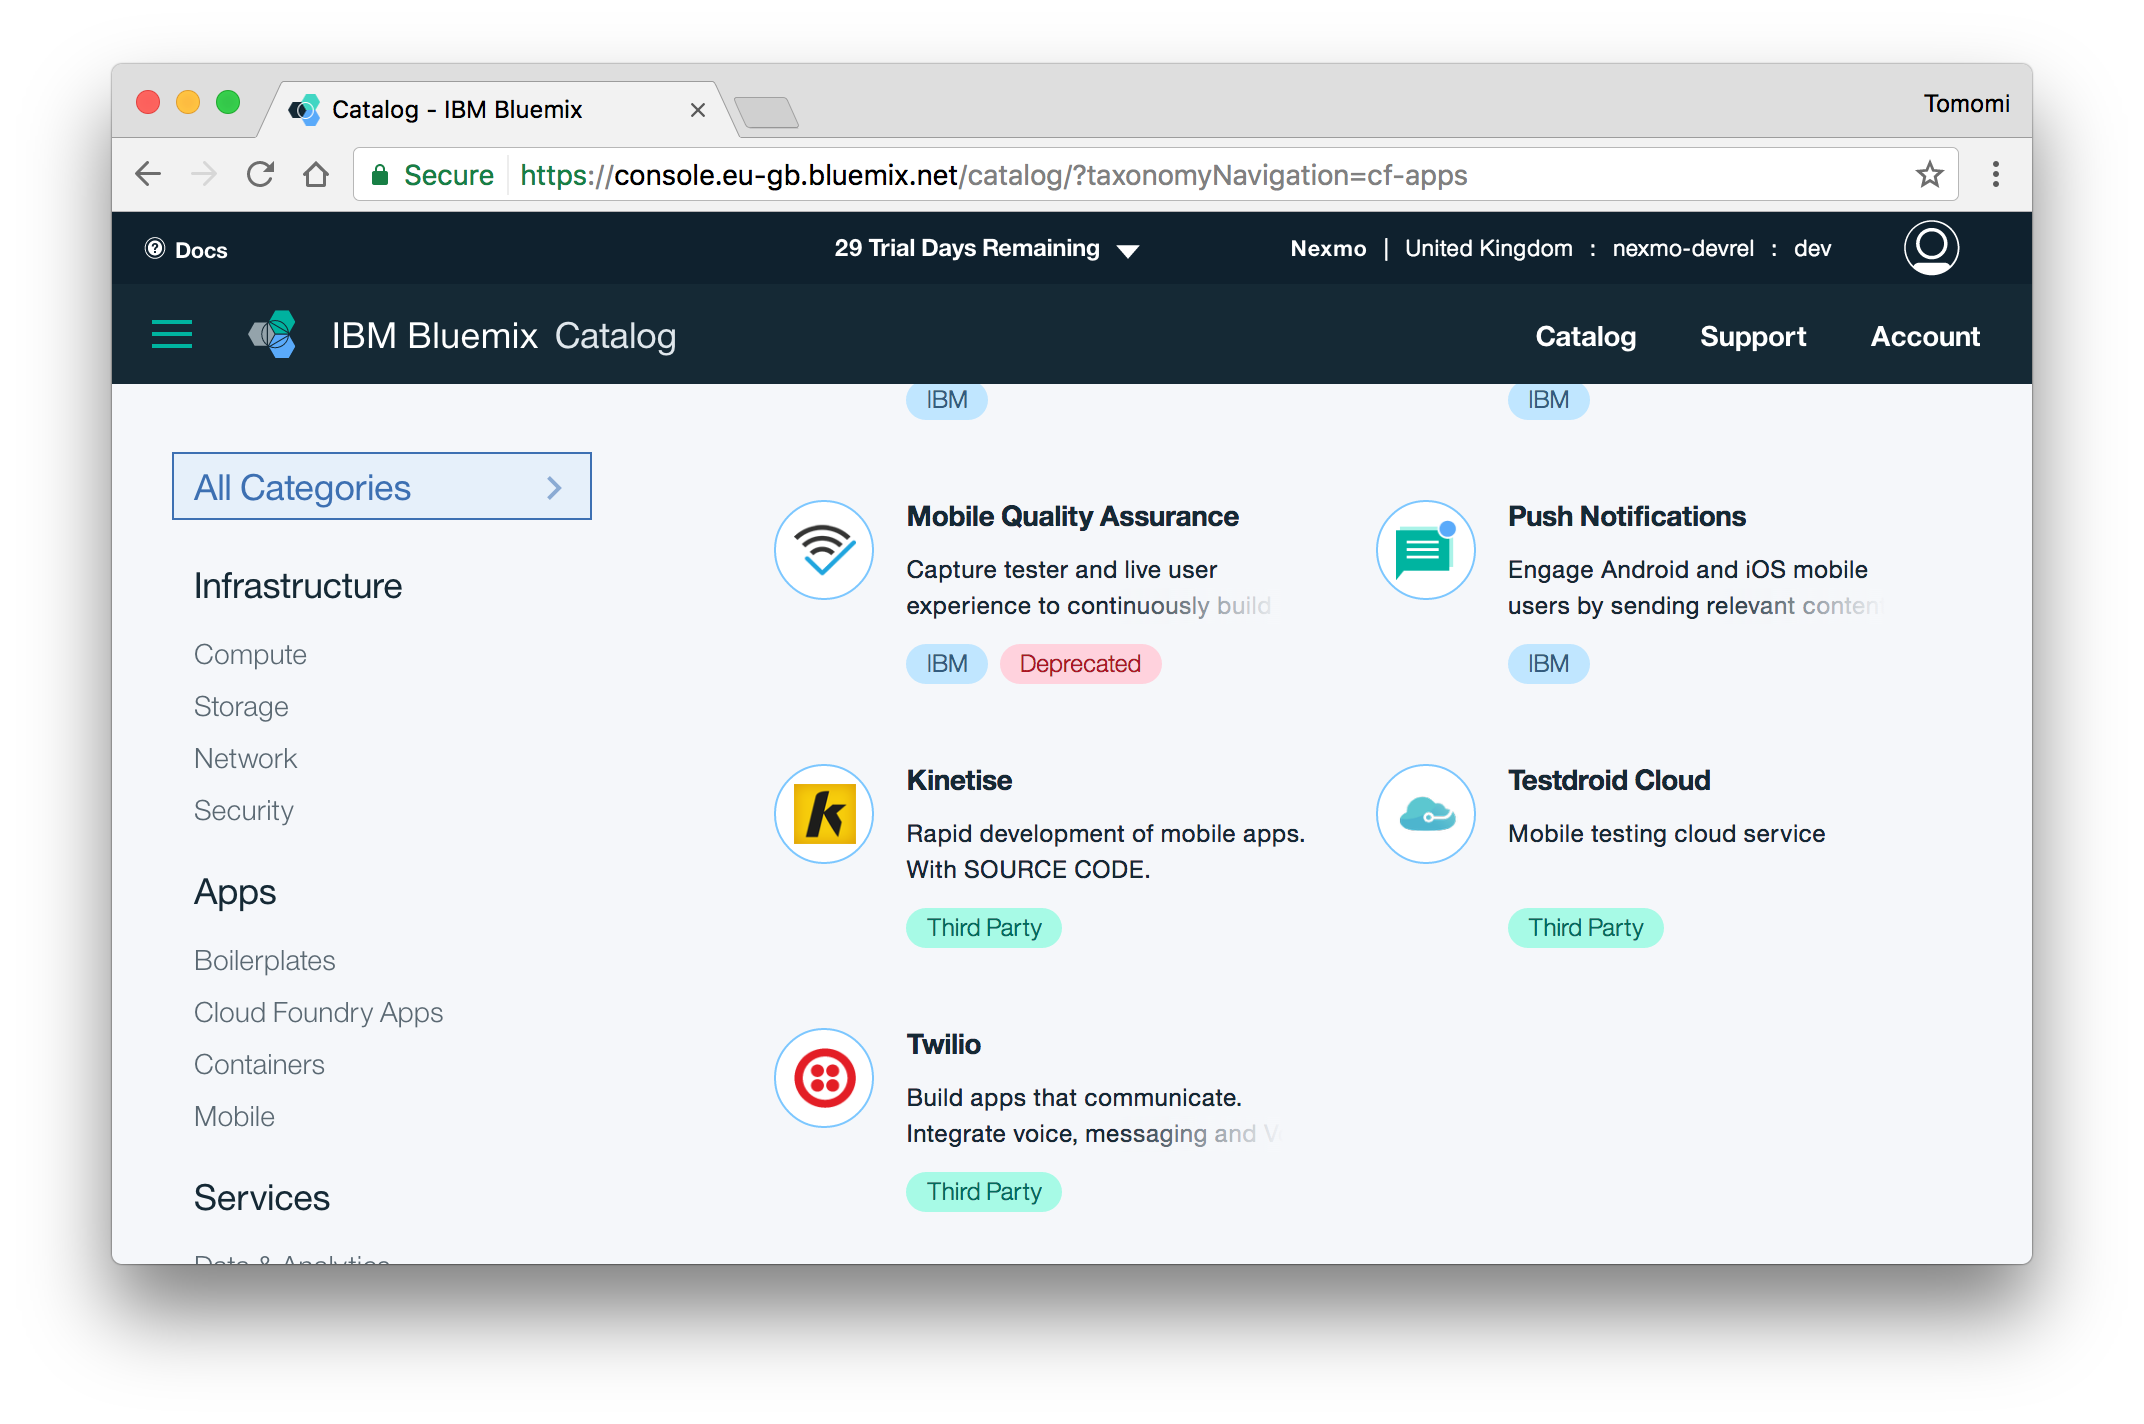
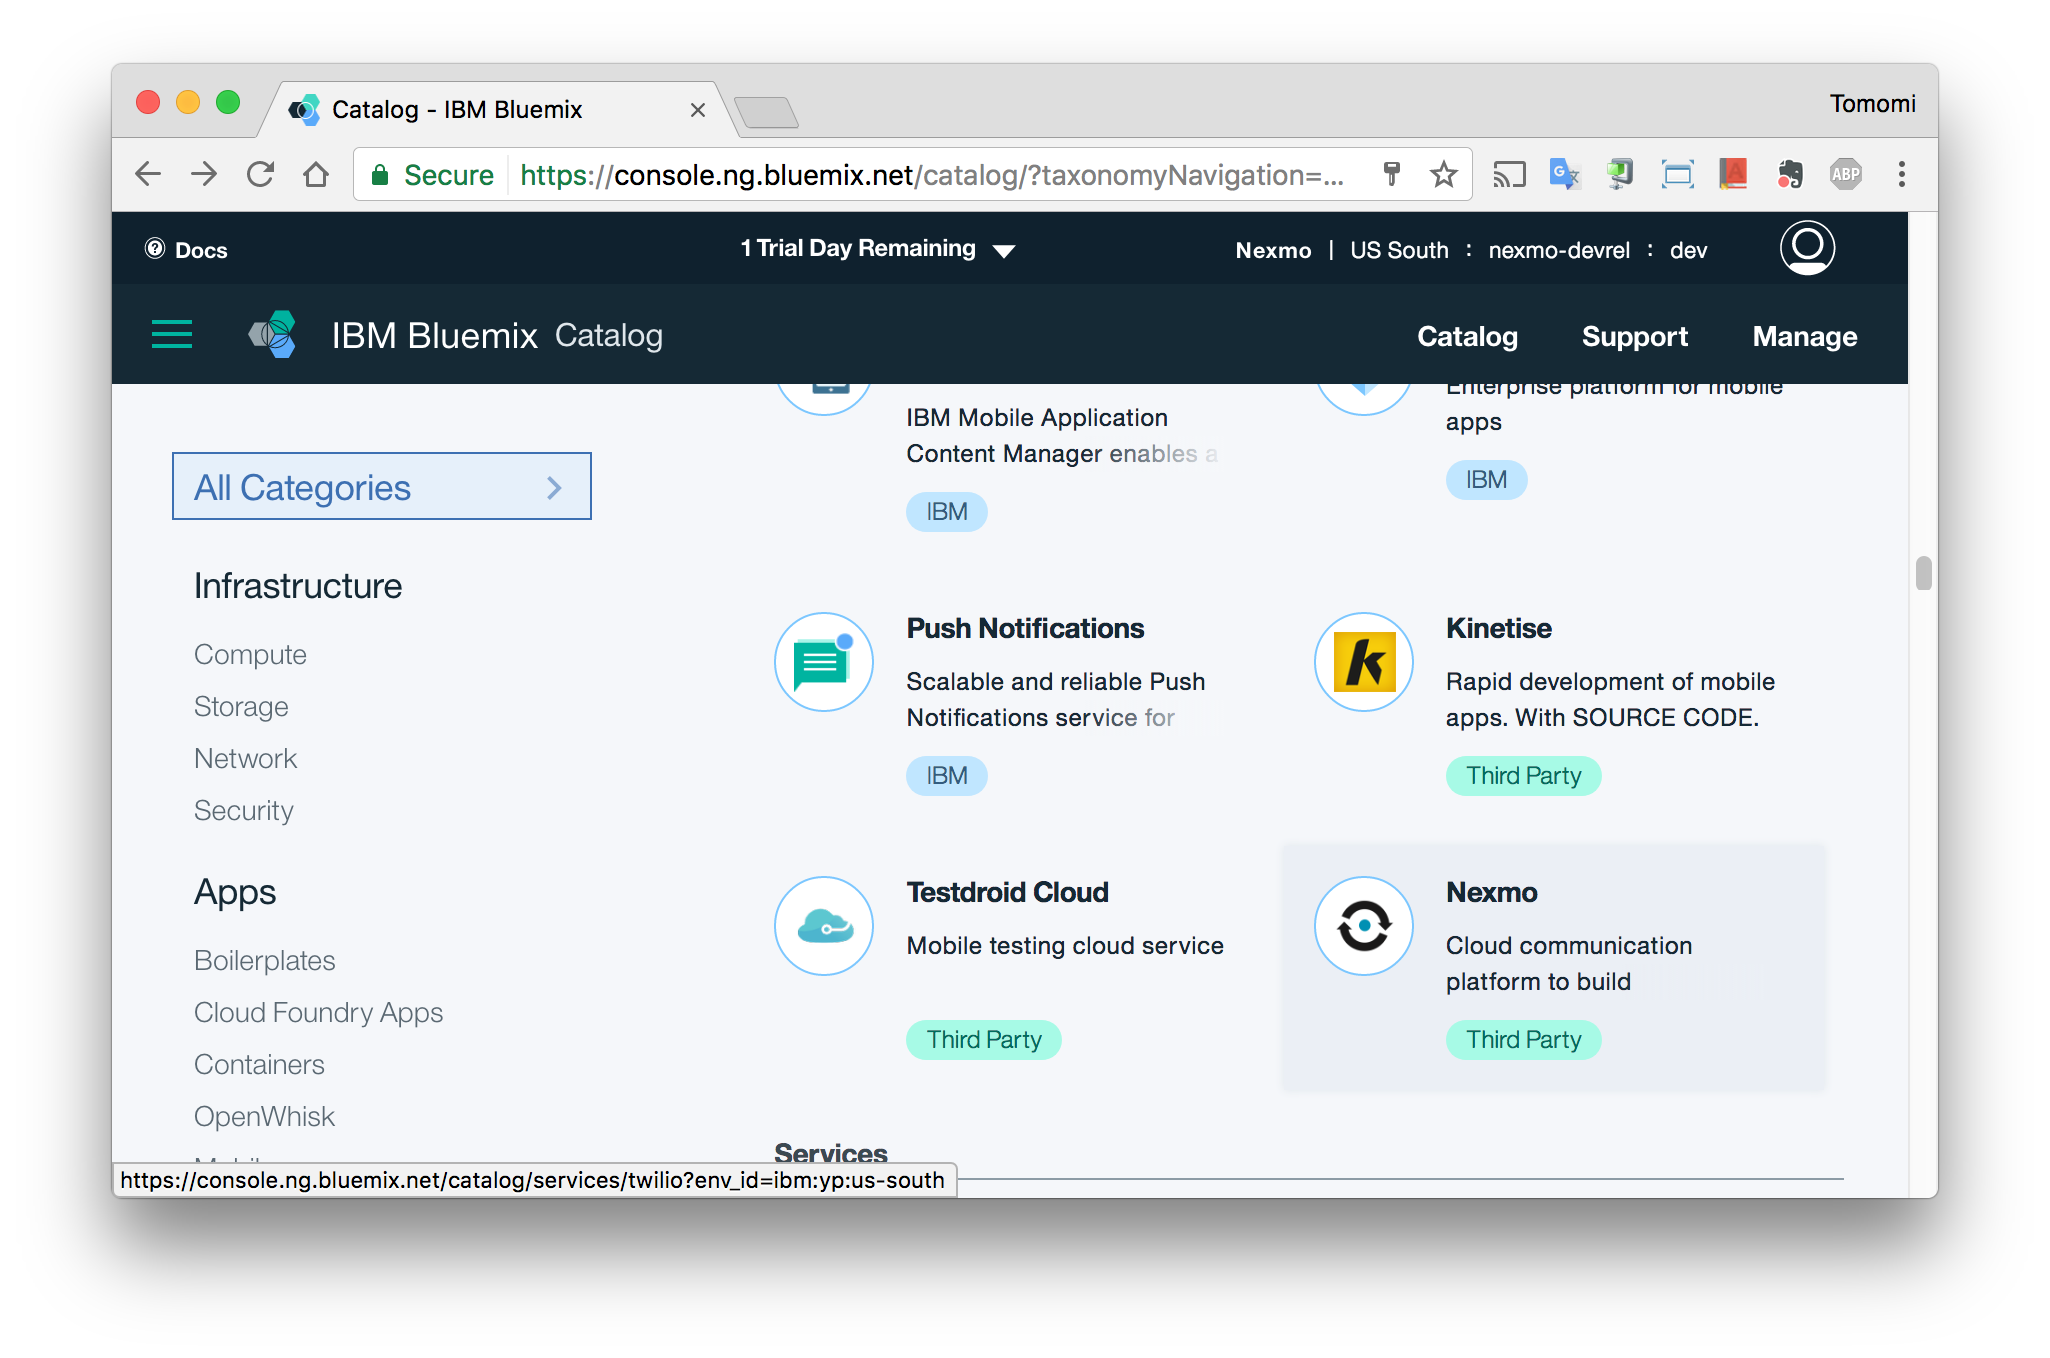
add a ne screenshot and modify the code sample

Changed region(s): [[0.0312, 0.0619, 0.9678, 0.8969], [0.6556, 0.6186, 0.8117, 0.8041], [0.9366, 0.4021, 0.9678, 0.4639]]

diff --git a/services/Nexmo/index.md b/services/Nexmo/index.md
@@ -18,7 +18,7 @@ lastupdated: "2017-04-04"
 {: #gettingstarted}
 
 
-[Nexmo](https://nexmo.com) provides tools for voice, messaging and phone verification, enabling you to embed programmable communications into mobile apps, websites and business systems. Nexmo APIs include SMS text messaging, two-factor authentication, voice, chat, and social media connect.
+[Nexmo](https://nexmo.com), The Vonage API Platform, provides tools for voice, messaging and phone verification, enabling you to embed programmable communications into mobile apps, websites and business systems. Nexmo APIs include SMS text messaging, two-factor authentication, voice, chat, and social media connect.
 
 To get started with Nexmo APIs on Bluemix:
 
@@ -36,7 +36,7 @@ Go to your [Dashboard](https://console.eu-gb.bluemix.net/dashboard/apps/), and c
 
 ![Create an app](images/01-create-app.png)
 
-Next, scroll down to *Cloud Foundry Apps*, and choose **SDK for Node.js****TM** :
+Next, scroll down to *Cloud Foundry Apps*, and choose **SDK for Node.js** :
 
 ![Create an app](images/02-create-app-js.png)
 
@@ -48,7 +48,7 @@ Now, it takes you to the dashboard and you should see some progress indicators t
 
 # Using Nexmo with the New Application
 
-You are going to use Nexmo to build your SMS analysis app. Click **Catalog** at the top menu bar:
+You are going to use Nexmo to simply send a SMS message. Click **Catalog** at the top menu bar:
 
 ![Create an app](images/04-go-to-catalog.png)
 
@@ -56,11 +56,7 @@ At the catalog, search under *Mobile*, then click **Nexmo**:
 
 ![Create an app](images/05-add-nexmo.png)
 
-Fill out your Nexmo API Key and API Secret.
-
-[I NEED THE SCREENSHOT!]
-
-Click Create.
+At the next screen, fill out your Nexmo **API Key** and **API Secret**, then click Create.
 
 ### Downloading Your Template Files
 
@@ -75,9 +71,7 @@ To download, modify, and redeploy your Cloud Foundry applications and service in
 After the installation, use the `cf` command to login and connect to the Bluemix environment:
 
 ```bash
-
 $ cf api [https://api.ng.bluemix.net](https://api.ng.bluemix.net)
-
 ```
 
 Or use the API endpoint for your region, [https://api.eu-gb.bluemix.net](https://api.eu-gb.bluemix.net/) (United Kingdom) and [https://api.au-syd.bluemix.net](https://api.au-syd.bluemix.net/) (Sydney).
@@ -85,9 +79,7 @@ Or use the API endpoint for your region, [https://api.eu-gb.bluemix.net](https:/
 Then login:
 
 ```bash
-
 $ cf login
-
 ```
 
 Now you got your Bluemix set up, so you can get started creating your Node.js application.
@@ -137,28 +129,35 @@ This will add the `nexmo` as the dependencies in your **package.json** file auto
 
 Also, check your **manifest.yml** file, which is used by Bluemix for the deployment. It should look like this:
 
-applications:
-
 ```bash
-- services:
-  - nexmo
+applications:
+- path: .
+  services
+  - Nexmo-yl
   name: send-sms
-  command: node app.js
+  host: send-sms
+...
 ```
 
-Now, open the app.js file, and assign your Nexmo API credentials. You can grab the credentials from the Bluemix, where it stores all service credentials. Access your Nexmo credentials within the `VCAP_SERVICES` environment variable with `cfenv` that parses Cloud Foundry-provided environment variables:
+For the service name,  you have an automatically generated for your application. It usually look like, `nexmo-`, and two random characters, such as `nexmo-yl`.
+
+Now, open the **app.js** file, and assign your Nexmo API credentials. You can grab the credentials from the Bluemix, where it stores all service credentials. Access your Nexmo credentials within the `VCAP_SERVICES` environment variable with `cfenv` that parses Cloud Foundry-provided environment variables:
 
 ```javascript
 const cfenv = require('cfenv');
-Const appEnv = cfenv.getAppEnv();
-const nexmoApiKey = appEnv.getService('api_key');
-Const nexmoApiSecret = appEnv.getService('api_secret');
+const appEnv = cfenv.getAppEnv();
+
+const nexmoApiKey = appEnv.getServiceCreds('Nexmo-yl').apiKey;
+const nexmoApiSecret = appEnv.getServiceCreds('Nexmo-yl').apiSecret
 ```
+
+The name must match your generated service name.
 
 Now, initialize a Nexmo instance with the credentials:
 
 ```javascript
 const Nexmo = require('nexmo');
+
 const nexmo = new Nexmo({
   apiKey: nexmoApiKey,
   apiSecret: nexmoApiSecret
@@ -185,15 +184,9 @@ nexmo.message.sendSms(
 );
 ```
 
-Let’s run this, and see if you get a SMS to your mobile phone.
+Now, let's deploy this to Bluemix.
 
-```bash
-$ node index.js
-```
 
-![SMS](images/sms-android.png)
-
-As soon as you run the script, Nexmo will send the message to your phone. The time of the actual delivery depends on your mobile phone carrier, so it can be instant, or it might take some time.
 
 # Deploying Your Application
 
@@ -203,7 +196,11 @@ To deploy your application, you will be using the Cloud Foundry CLI again. You c
 $ cf push
 ```
 
-Once you deploy the application, your phone should receive a message. Sure, this application isn’t the most practical, however, it should provide a good idea of how to use the Nexmo SMS API to build better applications!
+Once your application is deployed to Bluemix and run correctly, Nexmo will send the message to your phone. The time of the actual delivery depends on your mobile phone carrier, so it can be instant, or it might take some time.
+
+![SMS](images/sms-android.png)
+
+Sure, this sample application isn’t the most practical, however, it should provide a good idea of how to use the Nexmo SMS API to build better applications!
 
 To create something more practical using the Nexmo APIs, such as an app to make and receive voice calls; or setting up two-factor authentications, visit the [Nexmo Tutorial Blog](https://www.nexmo.com/blog/category/developers-2/tutorial/)!
 
